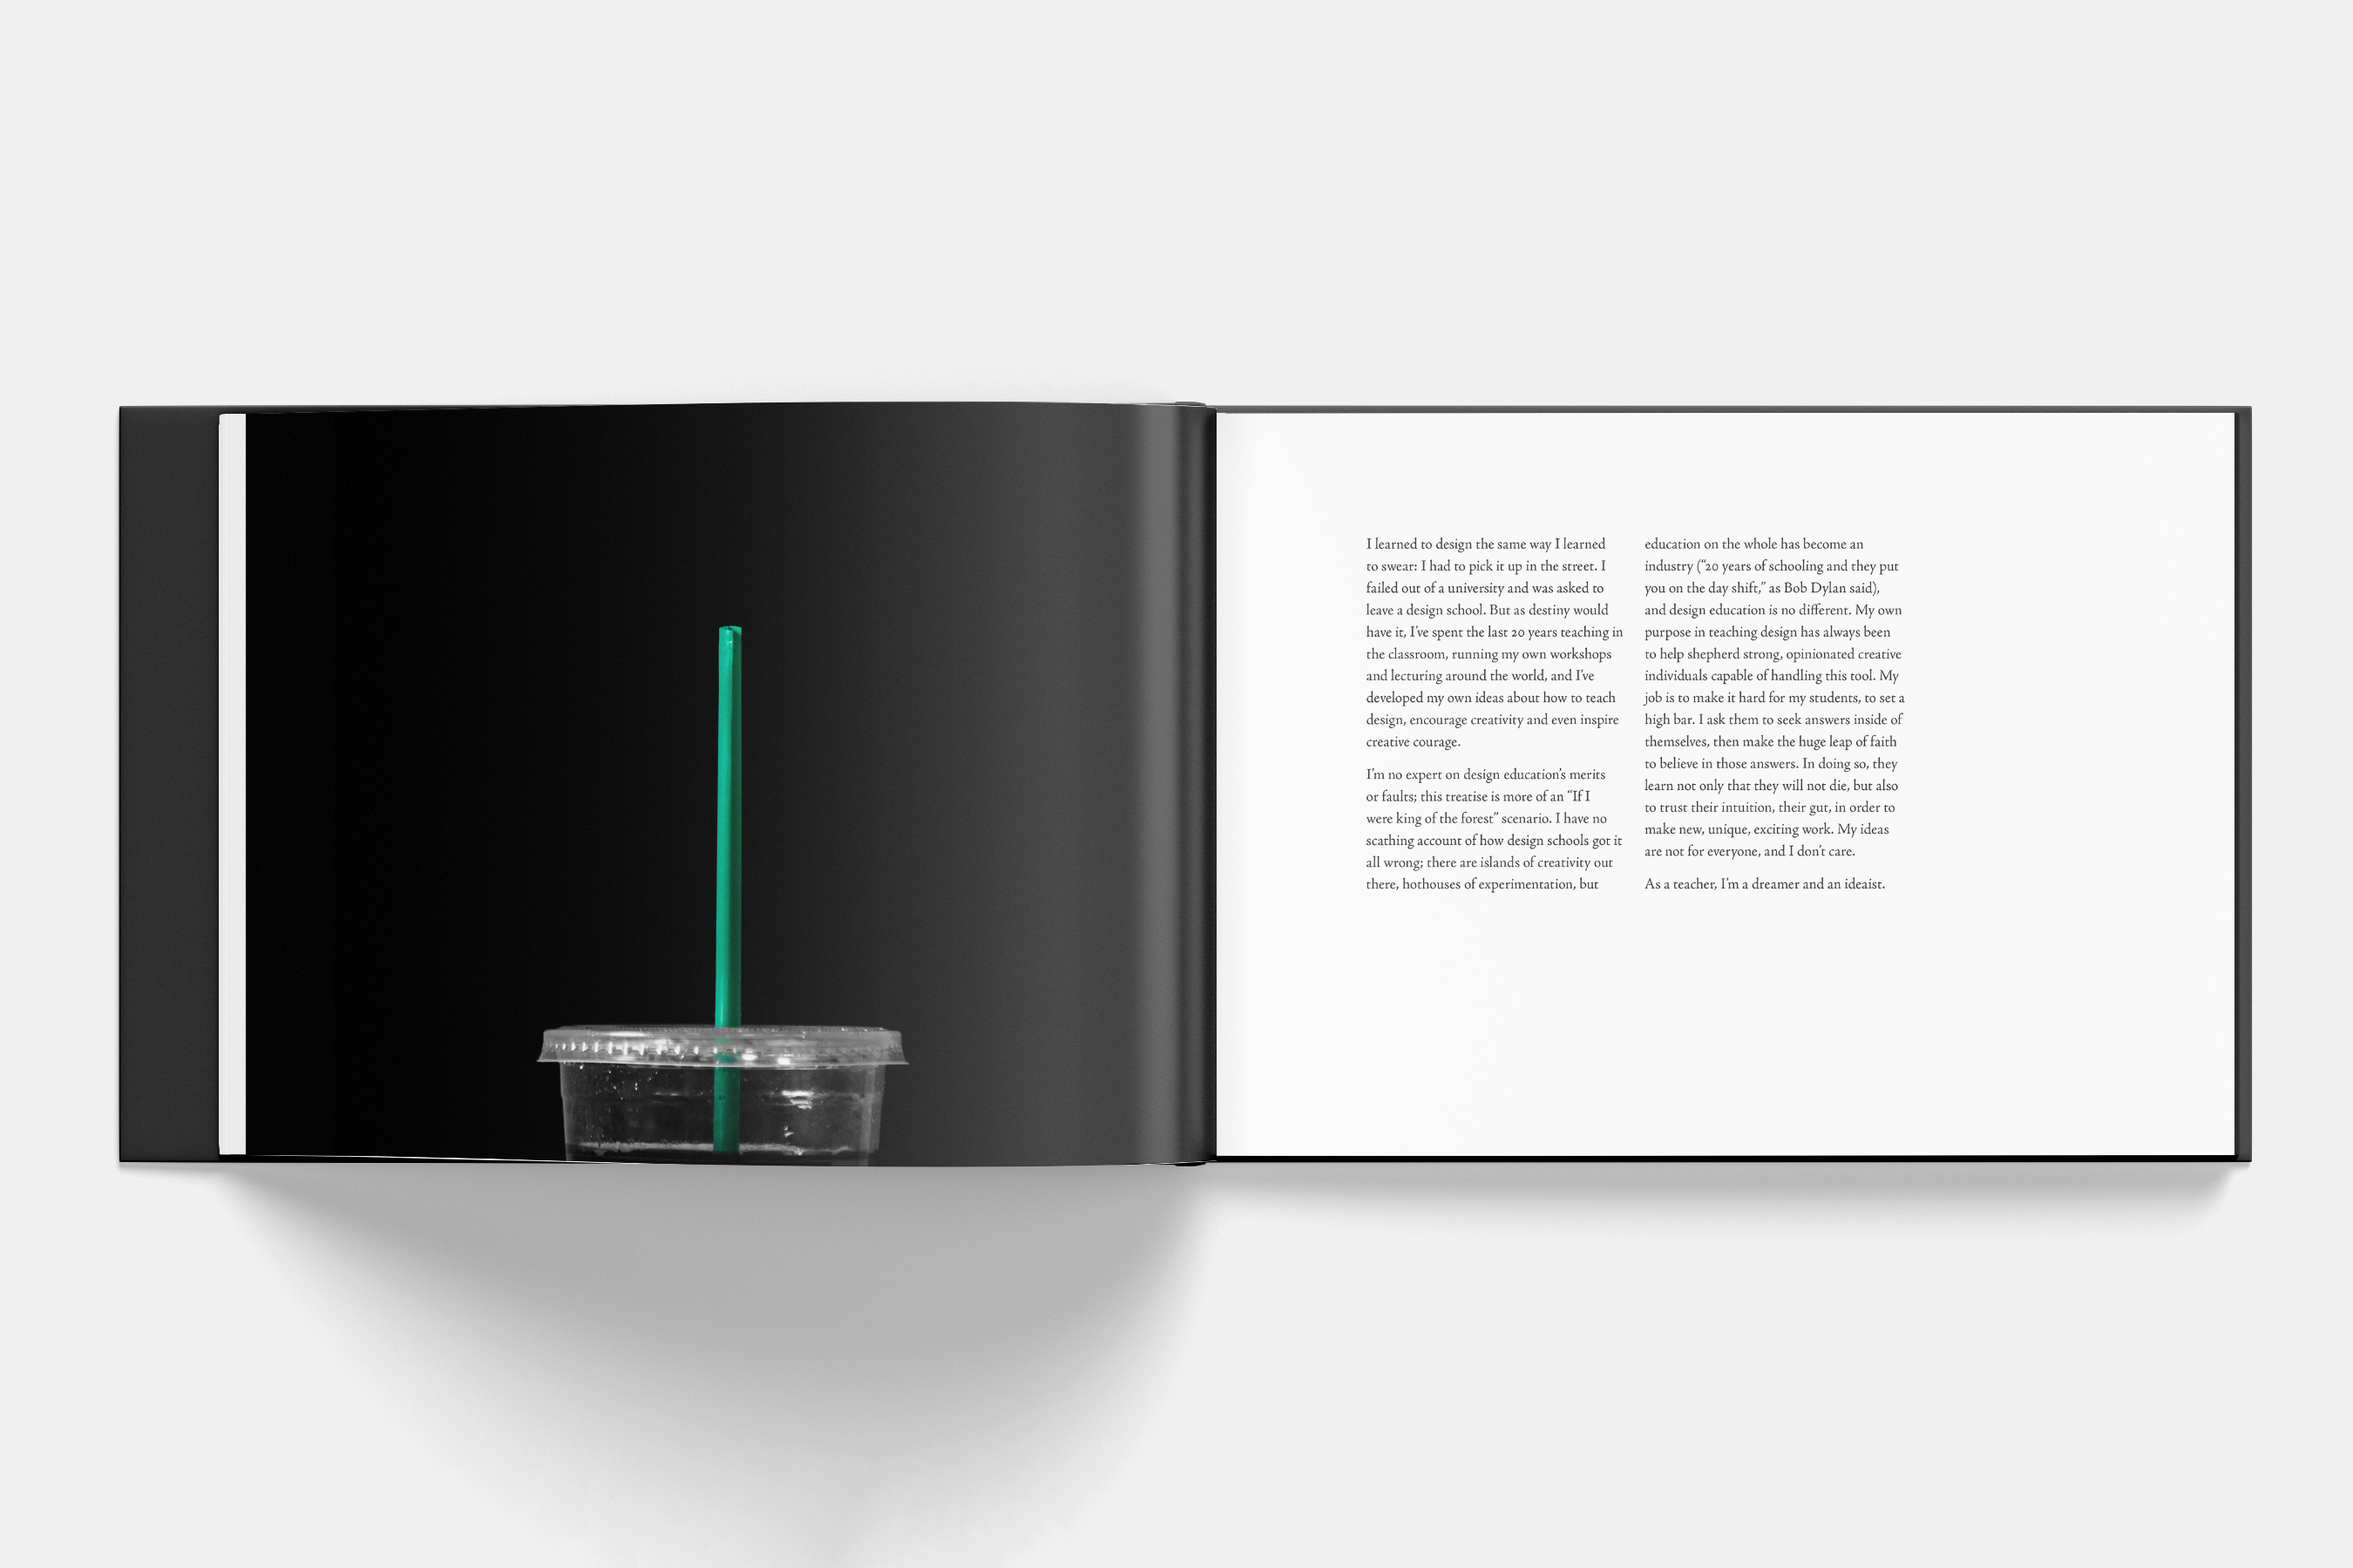
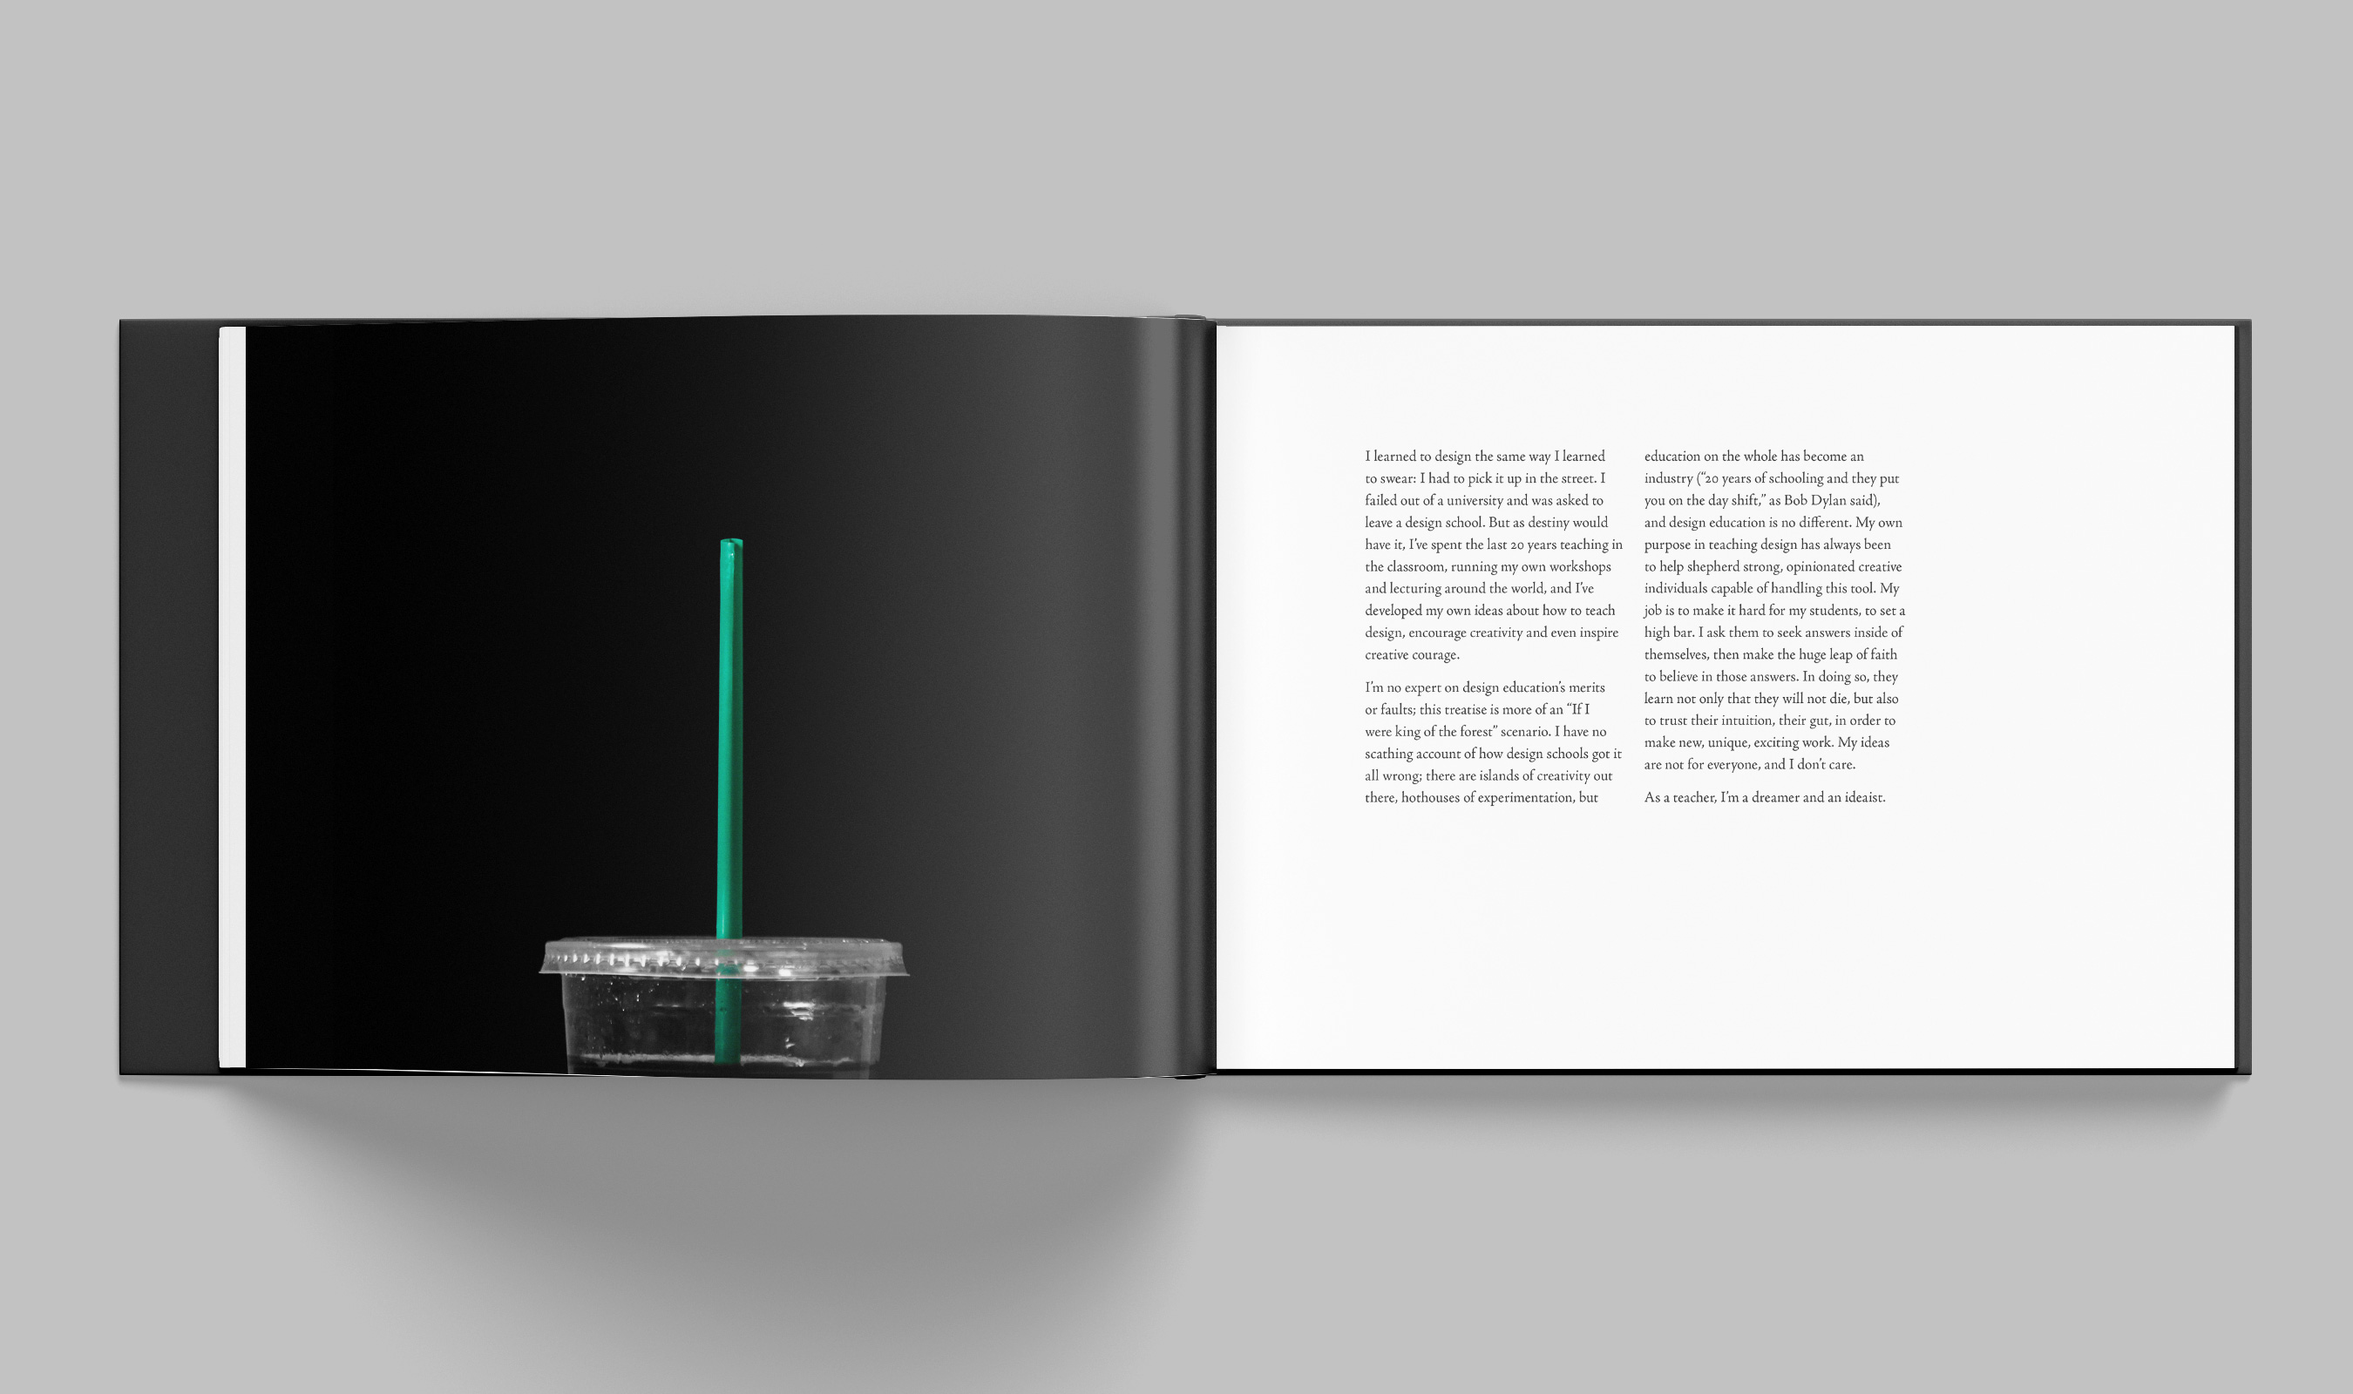
change

diff --git a/secondpages/type2book/style.css b/secondpages/type2book/style.css
@@ -141,17 +141,18 @@
 
 .sixth{
    width: 100%;
-   height: 100vh;
-   color: black;
-   background-color: #f4f4f4; 
+   height: auto;
+   color: white;
+   background-color: #e24a3c; 
    float: left;
 }
+
 .paragraph{
    position: relative;
    width: 30%;
    font-weight: 300;
    left: 15.2%;
-   top: 13%;
+   top: 15vh;
    font-size: 0.9em;
    line-height: 1.6em;
    margin: 0.5em;
@@ -163,7 +164,7 @@
    height: auto;
    font-weight: 300;
    left: 53%;
-   top: -25%;
+   top: -25vh;
    font-size: 0.9em;
    line-height: 1.6em;
    margin: 0.5em;
@@ -173,7 +174,7 @@
 
 .second img{
     position: relative;
-  box-shadow: 0px 0px 15px 5px rgba(0,0,0,0.1);
+  box-shadow: 0px 0px 15px 5px rgba(0,0,0,0.05);
    width: 29%;
     height: auto;
    left: 15.8%;
@@ -192,7 +193,7 @@
 
 .third img{
     position: relative;
-  box-shadow: 0px 0px 15px 5px rgba(0,0,0,0.1);
+  box-shadow: 0px 0px 15px 5px rgba(0,0,0,0.05);
    width: 29%;
     height: auto;
    left: 56.1%;
@@ -300,7 +301,7 @@
 
 .sixth .sample{
   position: relative;
-  box-shadow: 0px 0px 15px 5px rgba(0,0,0,0.1);
+  box-shadow: 0px 0px 15px 5px rgba(0,0,0,0.05);
   width: 29%;
   height: auto;
   left: 56.1%;
@@ -309,7 +310,7 @@
 
 .sixth .holder{
   position: relative;
-  box-shadow: 0px 0px 15px 5px rgba(0,0,0,0.1);
+  box-shadow: 0px 0px 15px 5px rgba(0,0,0,0.05);
   width: 29%;
   height: auto;
   left: 15.1%;
@@ -318,7 +319,7 @@
 
 .sixth img{
     position: relative;
-  box-shadow: 0px 0px 15px 5px rgba(0,0,0,0.1);
+  box-shadow: 0px 0px 15px 5px rgba(0,0,0,0.05);
    width: 100%;
     left: 21.4%;
    margin-top:7%; 
@@ -330,15 +331,7 @@
    margin-top:0;
 }
 
-.secondparagraphy{
-   float: left;
-   width: 30%;
-   height: auto;
-   position: relative;
-   font-size: 0.9em;
-   line-height: 1.6em;
-   margin: 0.5em;
-}
+
 
 body {
 	font: 18px/30px Sans-serif; 
@@ -439,7 +432,7 @@ body:not(.pace-done) > :not(.pace),body:not(.pace-done):before,body:not(.pace-do
 
 .sixth .sample{
   position: relative;
-  box-shadow: 0px 0px 15px 5px rgba(0,0,0,0.1);
+  box-shadow: 0px 0px 15px 5px rgba(0,0,0,0.05);
   width: 29%;
   height: auto;
   left: 56.1%;

diff --git a/secondpages/gd1book/index.html b/secondpages/gd1book/index.html
@@ -70,6 +70,7 @@ $(document).ready(function(){
 
 <div class="section third">
     <div class="resizer">
+      <br>
 	<div class="owl-carousel owl-theme">
   <div class="item"> <img src="images/book.jpg"> </div>
   <div class="item"> <img src="images/book1.jpg"> </div>
@@ -81,7 +82,7 @@ $(document).ready(function(){
 </div>
 
 
-<br><br><br>
+<br><br>
 
 </div>
 

diff --git a/secondpages/gd1book/style.css b/secondpages/gd1book/style.css
@@ -182,7 +182,7 @@
 
 .third img{
     position: relative;
-  box-shadow: 0px 0px 15px 5px rgba(0,0,0,0.05);
+  box-shadow: 0px 0px 15px 5px rgba(0,0,0,0);
    width: 100%;
     height: auto;
    	left: 21.4%;
